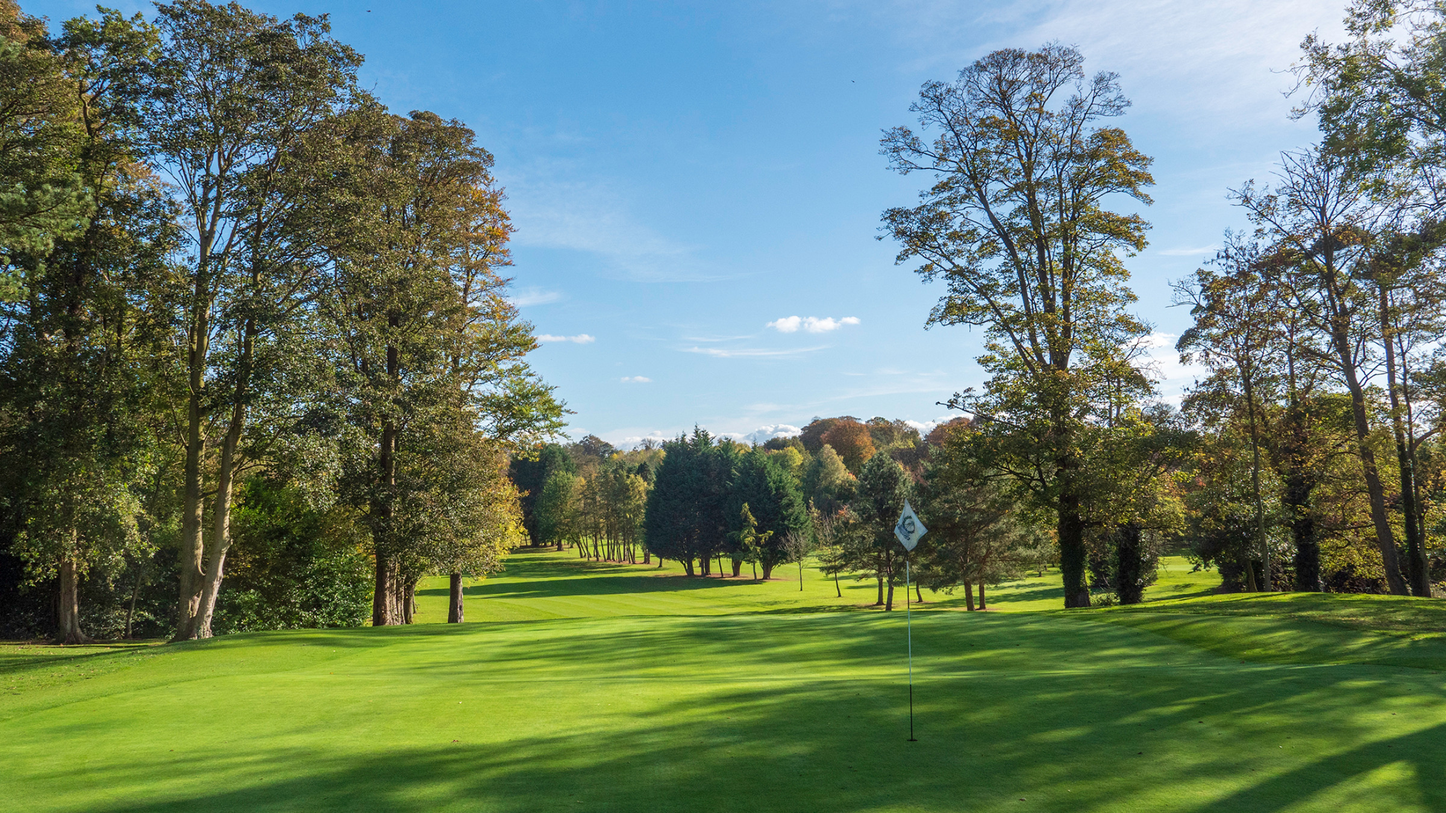
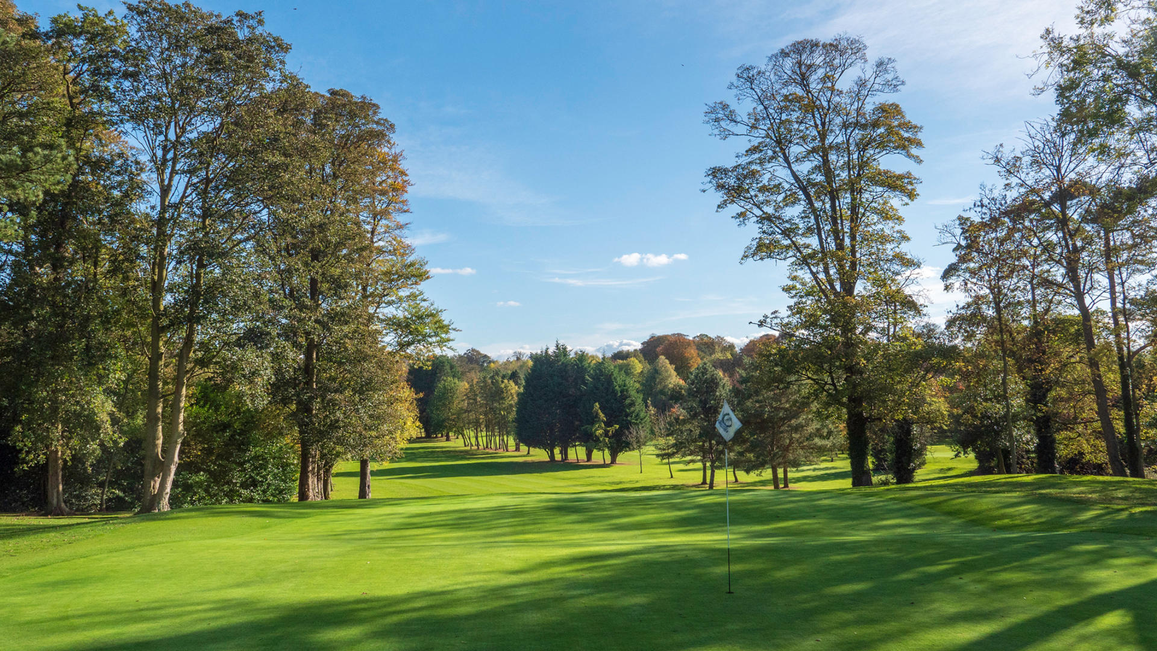
Cachebusting database

diff --git a/winterleague-frontend/src/api.js b/winterleague-frontend/src/api.js
@@ -1,17 +1,15 @@
 import initSqlJs from 'sql.js';
 import wasmUrl from 'sql.js/dist/sql-wasm-browser.wasm?url';
+import dbFile from 'virtual:winterleague-db';
 import * as queries from './data/queries';
-
-// Overridable for local testing, e.g. `npm run dev:testdata` uses winterleague.test.db
-const DB_FILE = import.meta.env.VITE_DB_FILE || 'winterleague.db';
 
 let dbPromise;
 
 async function loadDb() {
   const [SQL, response] = await Promise.all([
     initSqlJs({ locateFile: () => wasmUrl }),
-    // no-cache: revalidate so a newly deployed database shows up straight away
-    fetch(`${import.meta.env.BASE_URL}${DB_FILE}`, { cache: 'no-cache' }),
+    // Builds use a content-hashed filename, so unchanged data can use HTTP caching.
+    fetch(`${import.meta.env.BASE_URL}${dbFile}`),
   ]);
   if (!response.ok) throw new Error(`Failed to load league database (${response.status})`);
   return new SQL.Database(new Uint8Array(await response.arrayBuffer()));

diff --git a/winterleague-frontend/vite.config.js b/winterleague-frontend/vite.config.js
@@ -1,21 +1,11 @@
-import { rmSync } from 'node:fs';
-import { resolve } from 'node:path';
 import { defineConfig } from 'vite';
 import react from '@vitejs/plugin-react';
-
-// public/winterleague.test.db holds dummy data for local testing; keep it off the live site.
-const excludeTestDb = {
-  name: 'exclude-test-db',
-  apply: 'build',
-  closeBundle() {
-    rmSync(resolve(import.meta.dirname, 'dist/winterleague.test.db'), { force: true });
-  },
-};
+import databaseAsset from './tooling/databaseAsset.js';
 
 export default defineConfig({
   // Served from https://dunmurry-wl.github.io/winterleague/
   base: '/winterleague/',
-  plugins: [react(), excludeTestDb],
+  plugins: [react(), databaseAsset()],
   test: {
     environment: 'jsdom',
     globals: true,

diff --git a/winterleague-frontend/docs/application-diagram.md b/winterleague-frontend/docs/application-diagram.md
@@ -40,7 +40,7 @@ flowchart TD
     API -.->|golfer best scores and qualifying flags| TEAM
 
     subgraph STATIC[Static hosting]
-        DB["public/winterleague.db<br/>Database snapshot"]
+        DB["winterleague.&lt;hash&gt;.db<br/>Built from database/winterleague.db"]
         WASM["sql.js WASM asset<br/>Bundled by Vite"]
     end
 
@@ -51,7 +51,10 @@ flowchart TD
 
 The `api.js` name refers to a local JavaScript module. Its network request
 downloads a static database file; the league queries run inside the browser.
-`VITE_DB_FILE` can select another database, such as the local test-data snapshot.
+The source database lives in `database/winterleague.db` at the repository root;
+the build publishes a content-hashed copy. During development Vite serves the
+source database directly. `VITE_DB_FILE=winterleague.test.db` selects the test-data
+snapshot in `database/winterleague.test.db`, served by the same development plugin.
 The module shares one database-loading promise across callers and clears it if
 loading fails so a later call can retry.
 
